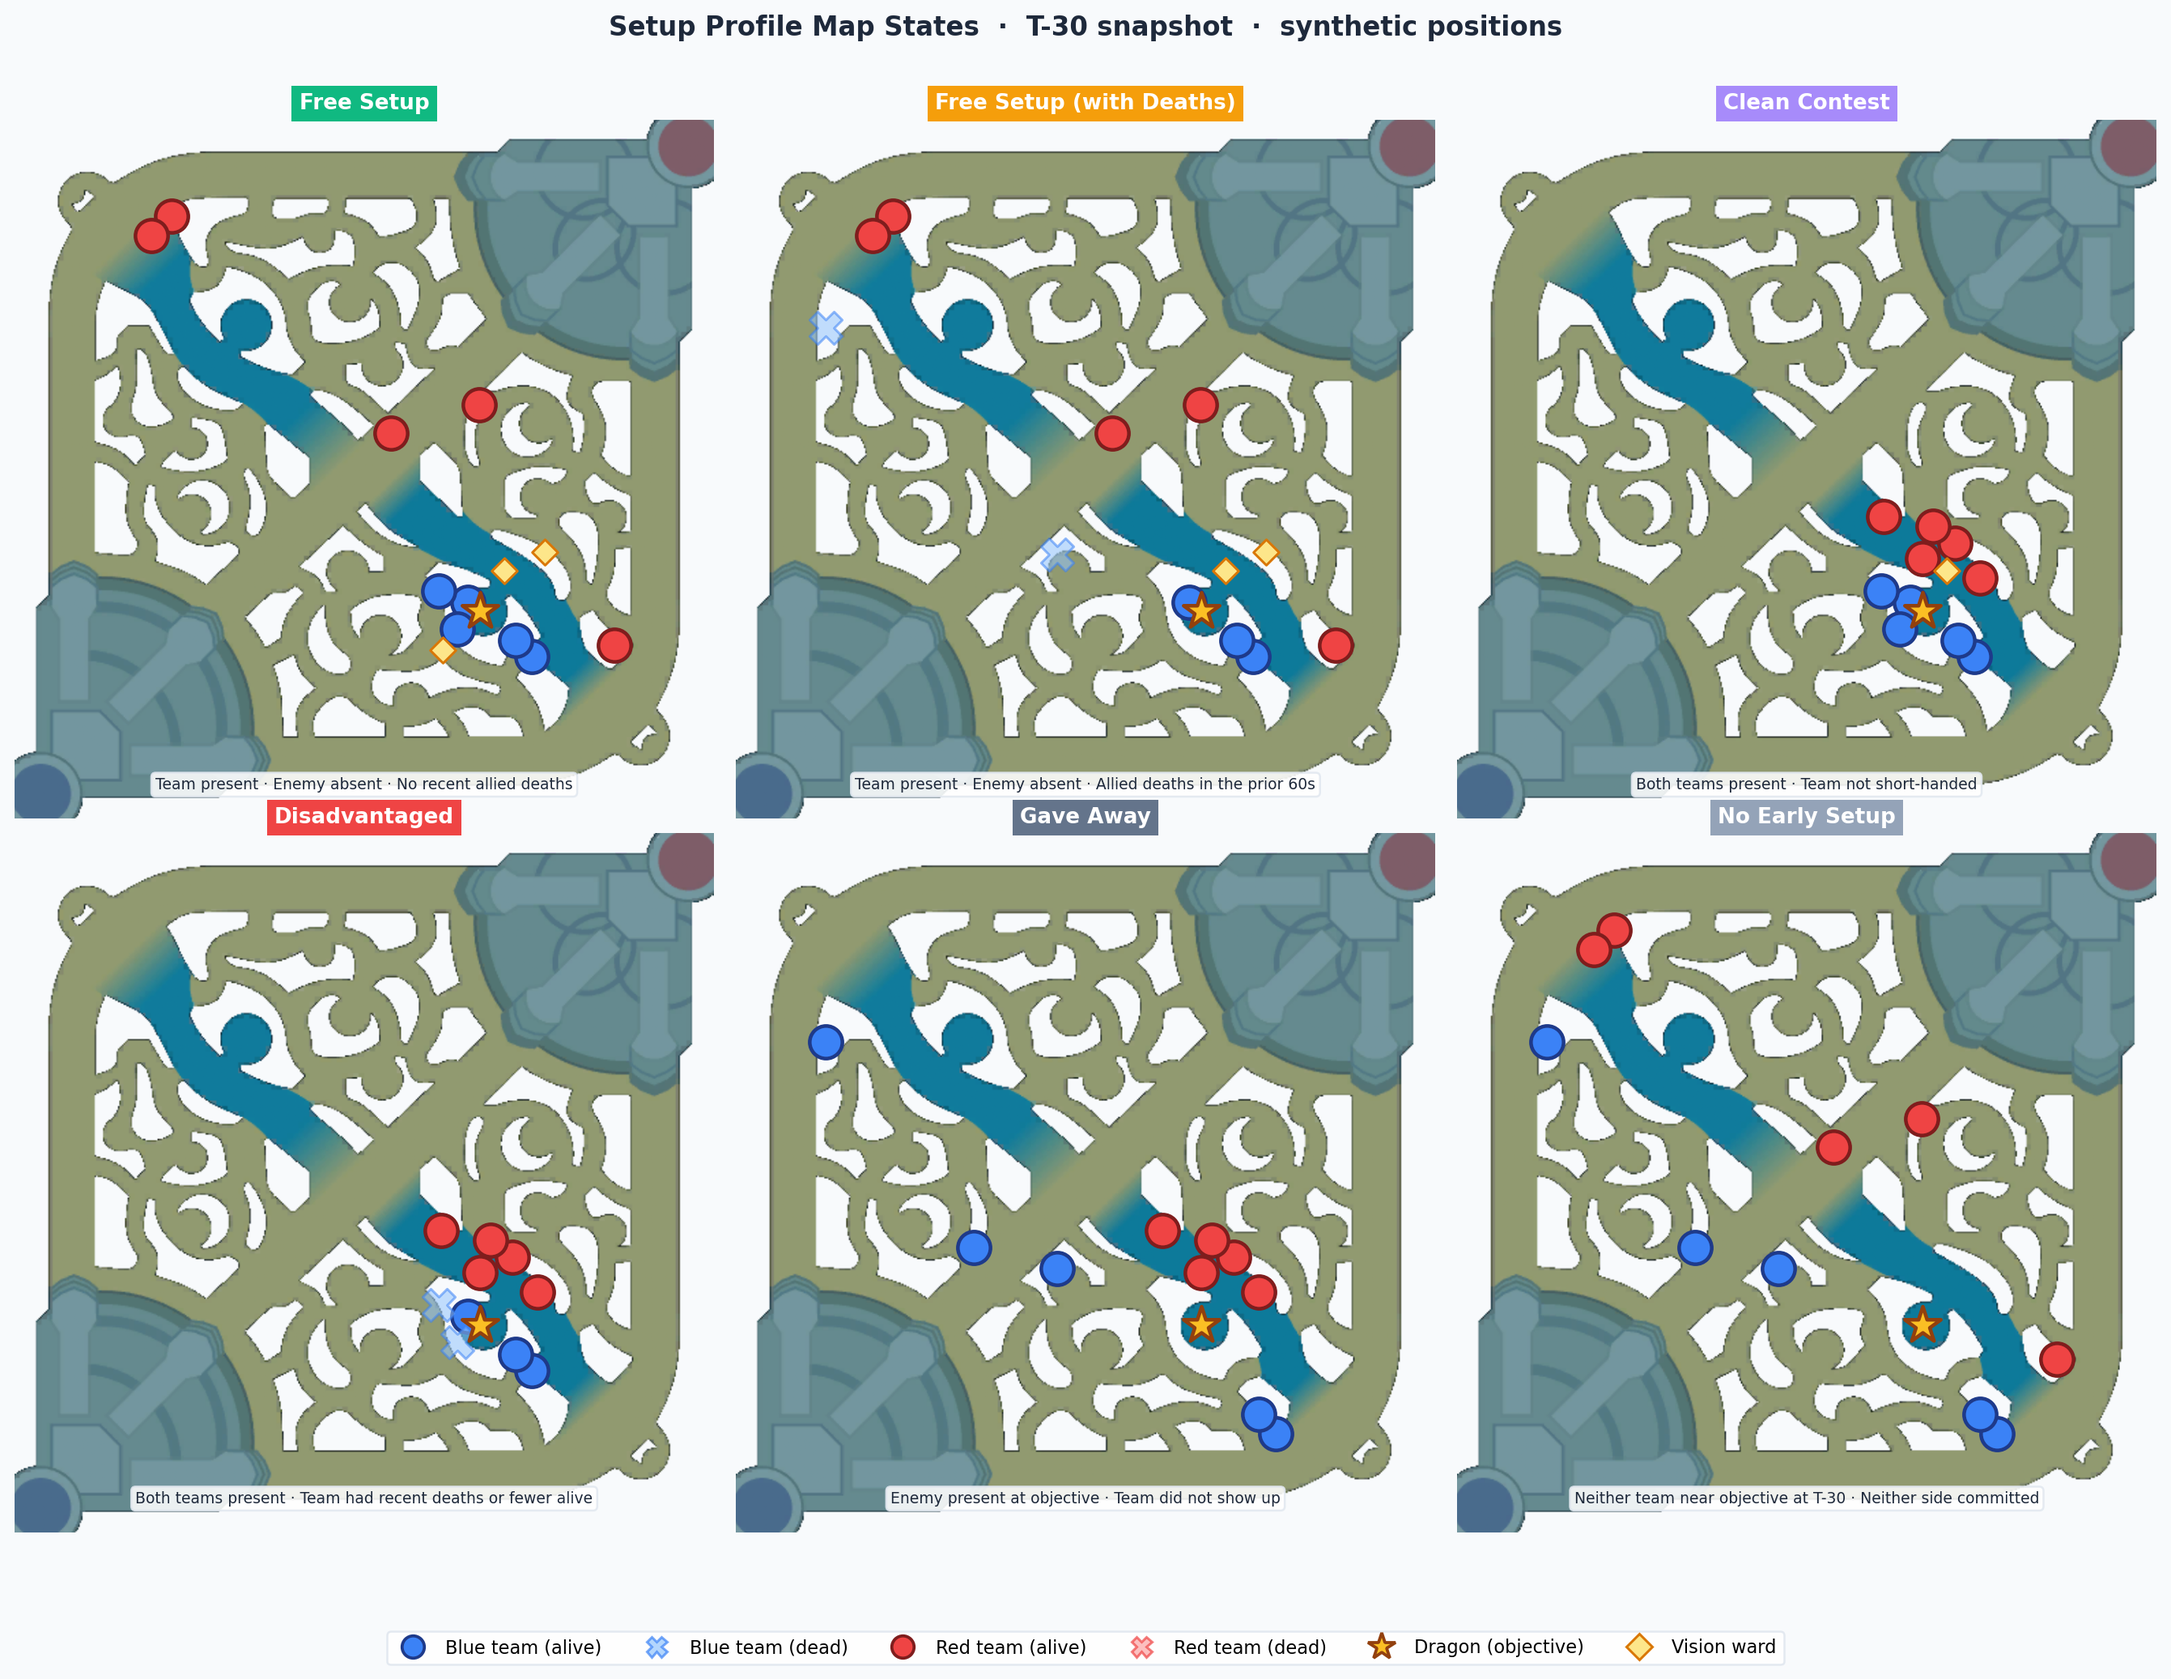
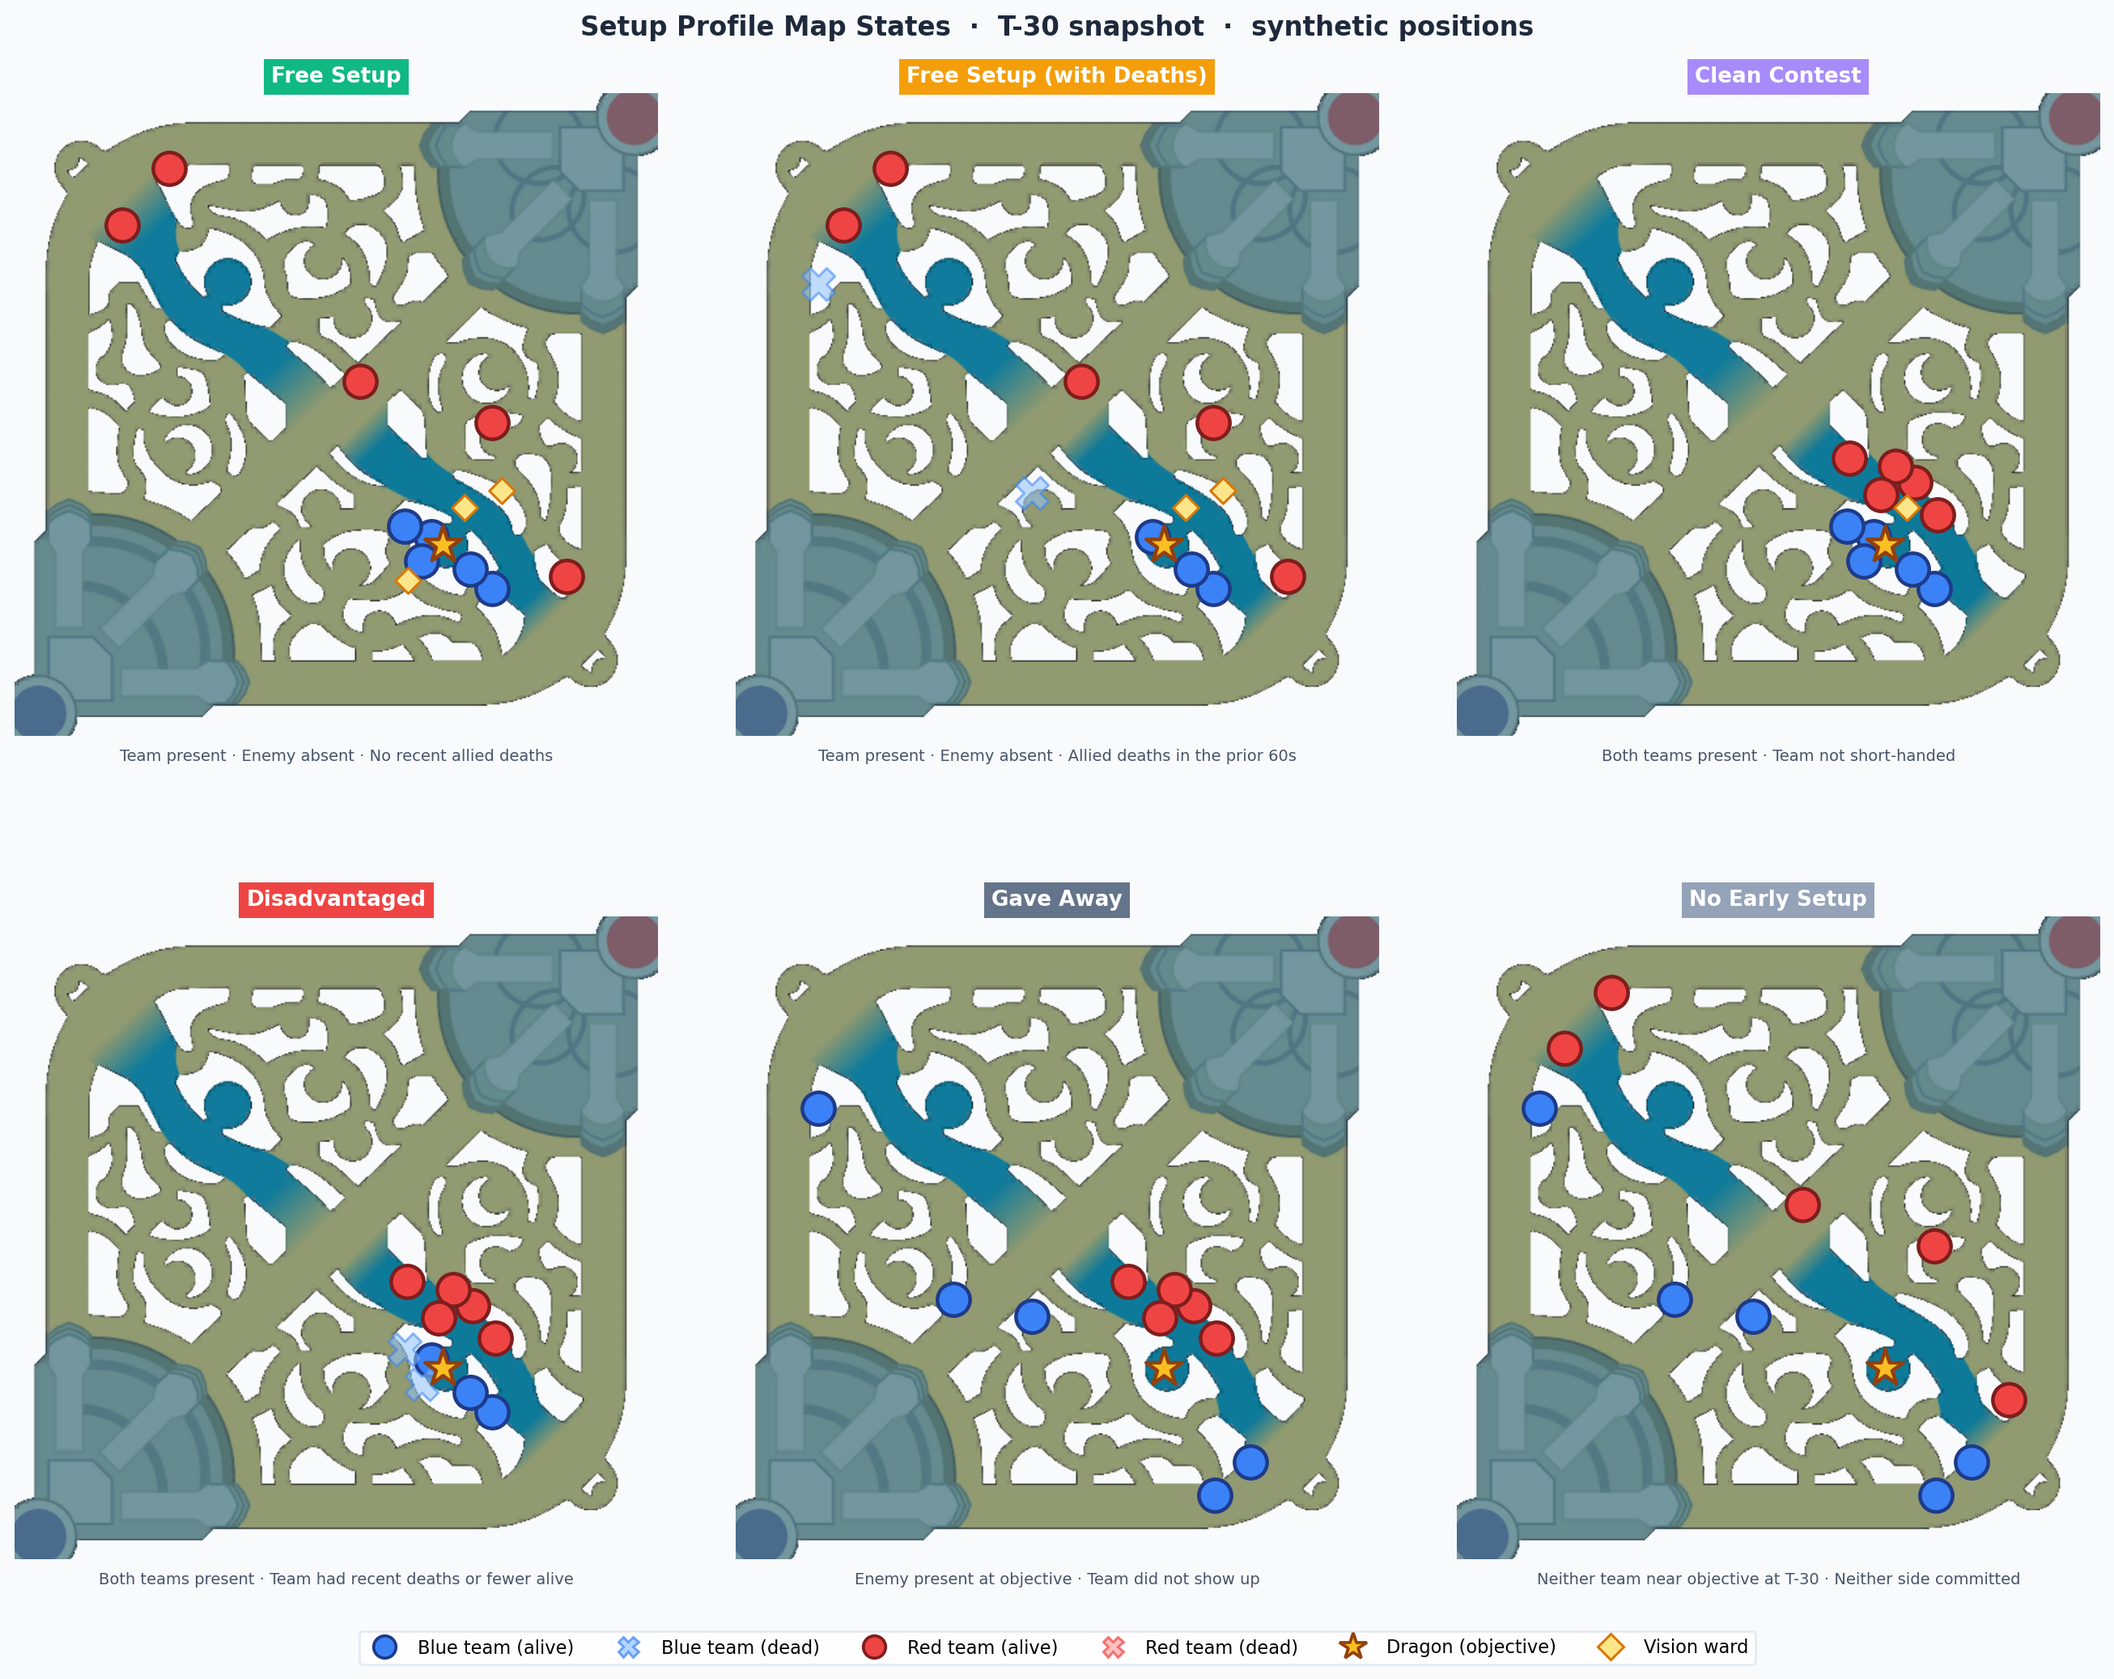
fix mapstate spacing and lane positions

diff --git a/src/lolobj/viz/mapstates.py b/src/lolobj/viz/mapstates.py
@@ -38,34 +38,42 @@ DRAGON: tuple[float, float] = (0.666, 0.703)
 # ── individual role positions ─────────────────────────────────────────────────
 # Blue side: base is bottom-left; bot lane runs along bottom/right edges.
 # Red side:  base is top-right;  bot lane runs along top/left edges.
+#
+# "Botside" = lower half of image (ny > 0.5) = dragon side.
+# "Topside" = upper half (ny < 0.5) = baron / red base side.
 
-# Blue at dragon — jungler at pit, ADC+support together, mid/top rotating in
+# Blue at dragon — jungler at pit, others rotating in from their angles
 _B_JG_DRAG  = (0.648, 0.690)
-_B_ADC_DRAG = (0.740, 0.768)
-_B_SUP_DRAG = (0.716, 0.745)   # close to ADC
+_B_ADC_DRAG = (0.742, 0.770)
+_B_SUP_DRAG = (0.708, 0.740)
 _B_MID_DRAG = (0.606, 0.674)
 _B_TOP_DRAG = (0.633, 0.728)
 
 # Red at dragon — approaching from their side (northeast of pit)
 _R_JG_DRAG  = (0.712, 0.606)
-_R_ADC_DRAG = (0.680, 0.582)
-_R_SUP_DRAG = (0.666, 0.628)   # close to red ADC
+_R_ADC_DRAG = (0.682, 0.580)
+_R_SUP_DRAG = (0.660, 0.624)
 _R_MID_DRAG = (0.610, 0.568)
 _R_TOP_DRAG = (0.748, 0.656)
 
-# Blue in lanes / jungle — not rotating to dragon yet
-_B_JG_LANE  = (0.340, 0.592)   # blue-side jungle (wolves/blue buff area)
-_B_ADC_LANE = (0.772, 0.858)   # blue bot lane
-_B_SUP_LANE = (0.748, 0.830)   # with ADC, slightly toward river
+# Blue in lanes / jungle — not rotating to dragon
+# ADC is ahead in bot lane; support is back in the same lane, not touching.
+_B_JG_LANE  = (0.338, 0.595)   # blue-side jungle (wolves / blue buff area)
+_B_ADC_LANE = (0.800, 0.848)   # farther up bot lane (toward dragon side)
+_B_SUP_LANE = (0.745, 0.900)   # further back in bot lane, near tower
 _B_MID_LANE = (0.460, 0.622)   # blue-side mid lane
 _B_TOP_LANE = (0.128, 0.298)   # blue top lane (left edge)
 
 # Red in lanes / jungle
-_R_JG_LANE  = (0.664, 0.408)   # red-side jungle (near red buff)
-_R_ADC_LANE = (0.225, 0.138)   # red bot lane (top-left of map)
-_R_SUP_LANE = (0.196, 0.166)   # with red ADC
+# Red's bot lane (ADC + support) is in the top-left of the map.
+# Red's top laner and jungler are on botside (bottom half of image):
+#   top laner is on the right edge (red's top lane = blue's bot side),
+#   jungler is near red buff which sits mid-right, just below centre.
+_R_JG_LANE  = (0.742, 0.512)   # near red buff — botside, right of centre
+_R_ADC_LANE = (0.240, 0.118)   # red bot lane, further up
+_R_SUP_LANE = (0.168, 0.205)   # red bot lane, further back toward tower
 _R_MID_LANE = (0.538, 0.448)   # red-side mid lane
-_R_TOP_LANE = (0.858, 0.752)   # red top lane (bottom-right edge)
+_R_TOP_LANE = (0.858, 0.752)   # red top lane — botside, right edge
 
 # Convenience lists
 _BLUE_AT_DRAGON = [_B_JG_DRAG, _B_ADC_DRAG, _B_SUP_DRAG, _B_MID_DRAG, _B_TOP_DRAG]
@@ -211,7 +219,6 @@ def _draw_scene(
         ax.scatter(bxs, bys, s=260, marker="X", color="#93c5fd",
                    edgecolors="#3b82f6", linewidths=1.2, alpha=0.55, zorder=7)
 
-    # Title above axes with accent colour
     ax.set_title(
         title,
         fontsize=10.5,
@@ -220,17 +227,11 @@ def _draw_scene(
         pad=5,
         bbox=dict(boxstyle="square,pad=0.35", facecolor=accent, edgecolor="none"),
     )
-
-    # Subtitle inside the map at the bottom edge — avoids overlap with the
-    # next row's title, which happens when the text lives below the axes.
     ax.text(
-        w * 0.5, h * 0.962,
-        subtitle,
-        fontsize=7.5, color="#1e293b",
-        ha="center", va="bottom",
-        bbox=dict(boxstyle="round,pad=0.28", facecolor="white",
-                  alpha=0.88, edgecolor="#e2e8f0"),
-        zorder=15,
+        0.5, -0.02, subtitle,
+        transform=ax.transAxes,
+        fontsize=7.8, color="#475569",
+        ha="center", va="top",
     )
 
 
@@ -295,6 +296,7 @@ def fig_mapstates_grid() -> plt.Figure:
         y=0.995,
     )
     fig.tight_layout(rect=[0, 0.06, 1, 0.99])
+    fig.subplots_adjust(hspace=0.28)
     return fig
 
 
